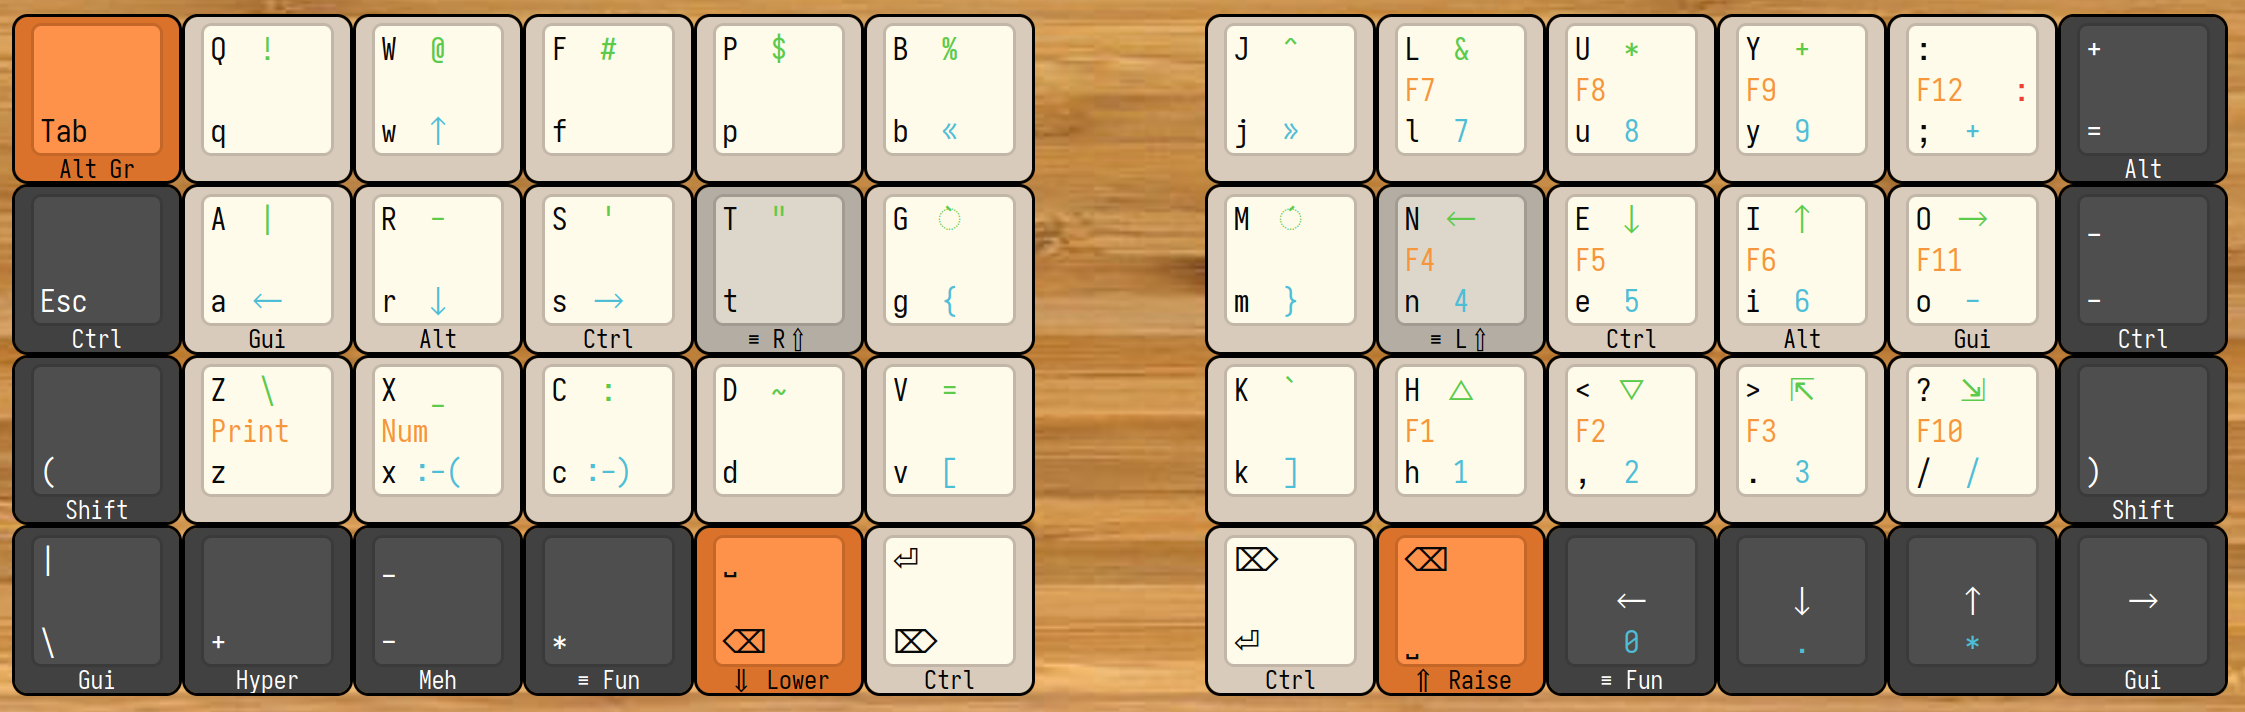
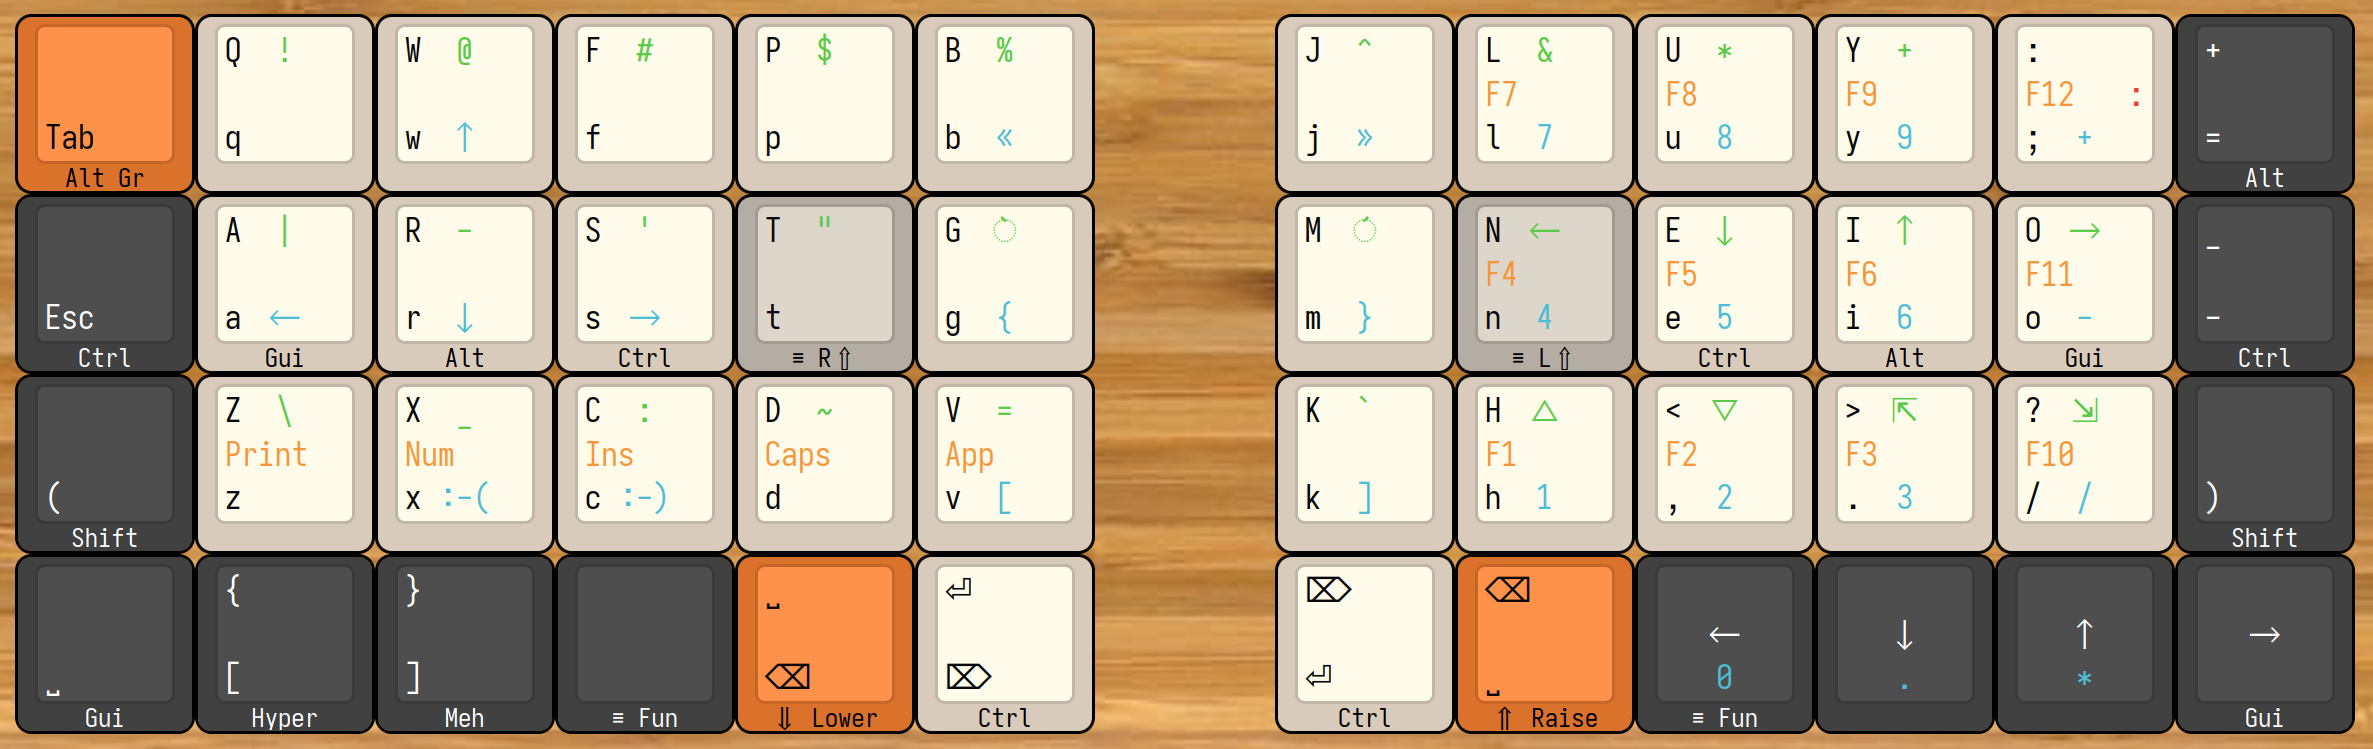
Cleanup, aligned keycodes with image and more.

diff --git a/keymap.c b/keymap.c
@@ -10,6 +10,8 @@ enum{
   _FUNC,
   _RHSH, // Righ hand shifted keycodes
   _LHSH, // Left hand shifted keycodes
+  _RHSH_QWERTY, // Righ hand shifted keycodes (qwerty version)
+  _LHSH_QWERTY, // Left hand shifted keycodes (qwerty version)
   _ADJUST
 };
 
@@ -118,37 +120,26 @@ qk_tap_dance_action_t tap_dance_actions[] = {
 #define KC_N_SH LT(_LHSH, KC_N)       // Pressing N key, enable shifted keys on other half (the left one)
 #define KC_T_SH LT(_RHSH, KC_T)       // Pressing T key, enable shifted keys on other half (the right one)
 // - Custom home row layers (qwerty):
-#define KC_J_SH LT(_LHSH, KC_J)       // Pressing J key, enable shifted keys on other half (the left one)
-#define KC_F_SH LT(_RHSH, KC_F)       // Pressing F key, enable shifted keys on other half (the right one)
+#define KC_J_SH LT(_LHSH_QWERTY, KC_J)       // Pressing J key, enable shifted keys on other half (the left one)
+#define KC_F_SH LT(_RHSH_QWERTY, KC_F)       // Pressing F key, enable shifted keys on other half (the right one)
 
 // - Custom layers:
 #define KC_SYSP LT(_SYMB, KC_SPC)     // Space / _symbols
 #define KC_SYES LT(_SYMB, KC_ESC)     // Esc / _symbols
 #define KC_NBSC LT(_NUMB, KC_BSPC)    // Backspace / _numbers
-#define KC_FUEN LT(_FUNC, KC_ENT)     // Enter / _functions
-#define KC_NURI LT(_NUMB, KC_RGHT)    // Right / _numbers
+#define KC_FULE LT(_FUNC, KC_LEFT)    // Left / _functions
 
 // - Custom keys/modifiers:
 #define KC_ATAB RALT_T(KC_TAB)        // - Tab / Alt Gr
-#define KC_AGLE RALT_T(KC_LEFT)       // - Left arrow / Alt Gr
 #define KC_CESC LCTL_T(KC_ESC)        // - Esc / Left Ctrl
 #define KC_CDEL LCTL_T(KC_DEL)        // - Esc / Left Ctrl
 #define KC_AEQL LALT_T(KC_EQL)        // - Equals / Left Alt
 #define KC_CMIN RCTL_T(KC_MINUS)      // - Minus / Right Ctrl
-#define KC_RATA RALT_T(KC_TAB)        // - Tab / Left Alt
-
+#define KC_CENT RCTL_T(KC_ENT)        // Enter / Right ctrl
+#define KC_GURI RGUI_T(KC_RGHT)    // Right / Right gui
 #define KC_HYBL HYPR_T(KC_LBRC)       // - Left Bracket / Hyper
-#define KC_MEBR MEH_T(KC_RBRC)        // - Right Bracket / Hyper
-
-
-// -- PC mode:
+#define KC_MEBR MEH_T(KC_RBRC)        // - Right Bracket / Meh
 #define KC_GSPC LGUI_T(KC_SPC)        // - Space / Left GUI
-#define KC_CBSP LCTL_T(KC_BSPC)       // - Backspace / Left Ctrl
-#define KC_GUDE LGUI_T(KC_DEL)        // - Del / Left GUI
-// -- Mac os mode:
-#define KC_CSPC LCTL_T(KC_SPC)        // - Space / Left Ctrl
-#define KC_GBSP LGUI_T(KC_BSPC)       // - Backspace / Left GUI
-#define KC_CTDE LCTL_T(KC_DEL)        // - Del / Left Ctrl
 
 // Home row mod tap keys (colemak):
 // - Left hand
@@ -168,7 +159,6 @@ qk_tap_dance_action_t tap_dance_actions[] = {
 #define KC_GU_SC RGUI_T(KC_SCLN)       // ; / Right Gui
 #define KC_AL_L  LALT_T(KC_L)          // L / Left Alt (left alt because used as Emacs M- )
 #define KC_CT_K  RCTL_T(KC_K)          // K / Right Ctrl
-
 
 // - Tap dance:
 #define KC_TDSC TD(TD_SCLN)           // ;; -> :
@@ -282,15 +272,15 @@ const uint16_t PROGMEM keymaps[][MATRIX_ROWS][MATRIX_COLS] = {
    KC_ATAB, KC_Q,    KC_W,    KC_F,    KC_P,    KC_B,    KC_J,    KC_L,    KC_U,    KC_Y,    KC_TDSC, KC_AEQL, \
    KC_CESC, KC_GU_A, KC_AL_R, KC_CT_S, KC_T_SH, KC_G,    KC_M,    KC_N_SH, KC_CT_E, KC_AL_I, KC_GU_O, KC_CMIN, \
    KC_LSPO, KC_Z,    KC_X,    KC_C,    KC_D,    KC_V,    KC_K,    KC_H,    KC_COMM, KC_DOT,  KC_SLSH, KC_RSPC, \
-   KC_GSPC, KC_HYBL, KC_MEBR, KC_SYES, KC_NBSC, KC_CDEL, KC_FUEN, KC_SYSP, KC_AGLE, KC_DOWN, KC_UP,   KC_NURI  \
+   KC_GSPC, KC_HYBL, KC_MEBR, KC_NUES, KC_NBSC, KC_CDEL, KC_CENT, KC_SYSP, KC_FULE, KC_DOWN, KC_UP,   KC_GURI  \
 ),
 
 /* QWERTY */
-[_COLEMAKDHMK] = LAYOUT_ortho_4x12(
+[_QWERTY] = LAYOUT_ortho_4x12(
    KC_ATAB, KC_Q,    KC_W,    KC_E,    KC_R,    KC_T,    KC_Y,    KC_U,    KC_I,    KC_O,    KC_P,    KC_AEQL, \
    KC_CESC, KC_GU_A, KC_AL_S, KC_CT_D, KC_F_SH, KC_G,    KC_H,    KC_J_SH, KC_CT_K, KC_AL_L, KC_GU_SC,KC_CMIN, \
    KC_LSPO, KC_Z,    KC_X,    KC_C,    KC_V,    KC_B,    KC_N,    KC_M,    KC_COMM, KC_DOT,  KC_SLSH, KC_RSPC, \
-   KC_GSPC, KC_HYBL, KC_MEBR, KC_SYES, KC_NBSC, KC_CDEL, KC_FUEN, KC_SYSP, KC_AGLE, KC_DOWN, KC_UP,   KC_NURI  \
+   KC_GSPC, KC_HYBL, KC_MEBR, KC_NUES, KC_NBSC, KC_CDEL, KC_CENT, KC_SYSP, KC_FULE, KC_DOWN, KC_UP,   KC_GURI  \
 ),
 
 
@@ -319,21 +309,39 @@ const uint16_t PROGMEM keymaps[][MATRIX_ROWS][MATRIX_COLS] = {
 ),
 
 
-/* Left hand shifted keycodes */
+/* Left hand shifted keycodes (colemak) */
 [_LHSH] = LAYOUT_ortho_4x12( \
   _______, S(KC_Q) ,S(KC_W) ,S(KC_F) ,S(KC_P) ,S(KC_B), _______, _______, _______, _______, _______, _______, \
   _______, S(KC_A) ,S(KC_R) ,S(KC_S) ,S(KC_T) ,S(KC_G), _______, _______, _______, _______, _______, _______, \
   _______, S(KC_Z) ,S(KC_X) ,S(KC_C) ,S(KC_D) ,S(KC_V), _______, _______, _______, _______, _______, _______, \
-  _______, _______, _______, _______, _______, _______, KC_DEL , KC_BSPC, KC_ESC, _______, _______, _______ \
+  _______, _______, _______, _______, _______, _______, KC_DEL , KC_BSPC, _______,_______, _______, _______ \
 ),
 
-/* Right hand shifted keycodes */
+/* Right hand shifted keycodes (colemak)*/
 [_RHSH] = LAYOUT_ortho_4x12( \
   _______, _______, _______, _______, _______, _______, S(KC_J) ,S(KC_L) ,S(KC_U) ,S(KC_Y) ,KC_COLN, _______, \
   _______, _______, _______, _______, _______, _______, S(KC_M) ,S(KC_N) ,S(KC_E) ,S(KC_I) ,S(KC_O), _______, \
   _______, _______, _______, _______, _______, _______, S(KC_K) ,S(KC_H) ,KC_LABK ,KC_RABK ,KC_QUES, _______, \
-  _______, _______, _______, KC_TAB , KC_SPC , KC_ENT , _______, _______, _______, _______, _______, _______ \
+  _______, _______, _______, _______, KC_SPC , KC_ENT , _______, _______, _______, _______, _______, _______ \
 ),
+
+
+/* Left hand shifted keycodes (qwerty) */
+[_LHSH_QWERTY] = LAYOUT_ortho_4x12( \
+  _______, S(KC_Q) ,S(KC_W) ,S(KC_E) ,S(KC_R) ,S(KC_T), _______, _______, _______, _______, _______, _______, \
+  _______, S(KC_A) ,S(KC_S) ,S(KC_D) ,S(KC_F) ,S(KC_G), _______, _______, _______, _______, _______, _______, \
+  _______, S(KC_Z) ,S(KC_X) ,S(KC_C) ,S(KC_V) ,S(KC_B), _______, _______, _______, _______, _______, _______, \
+  _______, _______, _______, _______, _______, _______, KC_DEL , KC_BSPC, _______,_______, _______, _______ \
+),
+
+/* Right hand shifted keycodes (qwerty)*/
+[_RHSH_QWERTY] = LAYOUT_ortho_4x12( \
+  _______, _______, _______, _______, _______, _______, S(KC_Y) ,S(KC_U) ,S(KC_I) ,S(KC_O) ,S(KC_P), _______, \
+  _______, _______, _______, _______, _______, _______, S(KC_H) ,S(KC_J) ,S(KC_K) ,S(KC_L) ,KC_COLN, _______, \
+  _______, _______, _______, _______, _______, _______, S(KC_N) ,S(KC_M) ,KC_LABK ,KC_RABK ,KC_QUES, _______, \
+  _______, _______, _______, _______, KC_SPC , KC_ENT , _______, _______, _______, _______, _______, _______ \
+),
+
 
 
 
